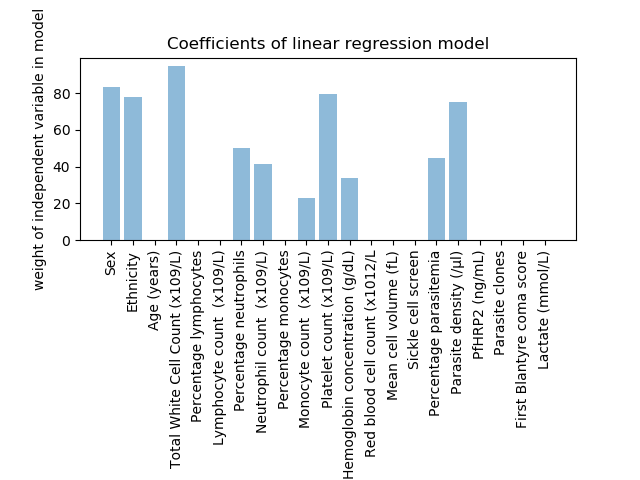
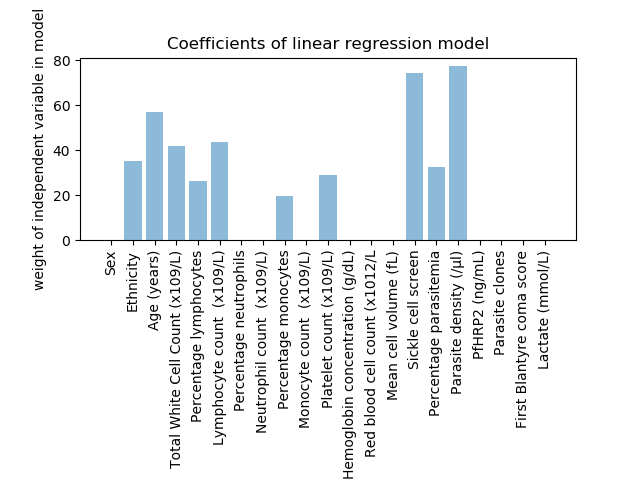
added stuff

diff --git a/src/regrModel.py b/src/regrModel.py
@@ -26,8 +26,10 @@ from https://machinelearningmastery.com/make-predictions-scikit-learn/
 
 # generate regression dataset
 y = readin.prop()
-print(y[1][:])
-#print(len(y))
+y_pathogen = [r[1] for r in y] # only pathogen read proportions
+print(len(y_pathogen))
+print(y_pathogen)
+
 np.asarray(y)
 print('y_array = ', y)
 
@@ -62,67 +64,75 @@ for j in range(len(X)):
 		y_new.append(y[j])
 		X_new.append(X[j])
 
-parasetemia = [9.5,
-15,
-9.2,
-4.8,
-13,
-8.1,
-9.5,
-15,
-9.2,
-4.8,
-13,
-8.1,
-9.5,
-15,
-9.2,
-4.8,
-13,
-8.1,
-9.5,
-15,
-9.2,
-4.8,
-13,
-8.1,
-9.5,
-15,
-9.2,
-4.8,
-13,
-8.1,
-9.5,
-15,
-9.2,
-4.8,
-13,
-8.1,
-9.5,
-15,
-9.2,
-4.8,
-13,
-8.1,
-9.5,
-15,
-9.2,
-4.8]
-print('parasetemia = ', parasetemia)
-
+# TO PRINT PLOT PARASETEMIA PERCENTAGE VS PERCENTAGE OF READS THAT MAP TO HOST
+# parasetemia = [9.5,
+# 15,
+# 9.2,
+# 4.8,
+# 13,
+# 8.1,
+# 9.5,
+# 15,
+# 9.2,
+# 4.8,
+# 13,
+# 8.1,
+# 9.5,
+# 15,
+# 9.2,
+# 4.8,
+# 13,
+# 8.1,
+# 9.5,
+# 15,
+# 9.2,
+# 4.8,
+# 13,
+# 8.1,
+# 9.5,
+# 15,
+# 9.2,
+# 4.8,
+# 13,
+# 8.1,
+# 9.5,
+# 15,
+# 9.2,
+# 4.8,
+# 13,
+# 8.1,
+# 9.5,
+# 15,
+# 9.2,
+# 4.8,
+# 13,
+# 8.1,
+# 9.5,
+# 15,
+# 9.2,
+# 4.8]
+# print('parasetemia = ', parasetemia)
+#
 #print('y_new = ', y_new)
 #print('X_new = ', X_new)
 #print(len(y_new))
 #print(len(X_new))
+#
+#print(len(parasetemia), len(y_pathogen), len(sampleIDs))
+#
+#np.random.seed(1234)
+#plt.title("How well does parasitemia correlate with percentage of pathogen maps?")
+#plt.scatter(parasetemia, y_pathogen, alpha=0.5)
+#plt.xlabel("percentage of parasitemia")
+#plt.ylabel("percentage of pathogen maps")
+#plt.legend(loc=2)
+#plt.show()
+
 
 y_new_h = [item[0] for item in y_new] # list of only host proportions
 print('y_new_h = ', y_new_h)
 
-
-print(len(parasetemia), len(y_new_h))
-plt.bar(parasetemia, y_new_h)
-plt.xticks(x, sampleIDs)
-plt.show()
+#del sampleIDs[0]
 
 # '''
 # # OPTION 2:
@@ -145,77 +155,77 @@ plt.show()
 # #print(len(X_new2))
 # '''
 
-# #X, y = make_regression(n_samples=46, n_features=21, noise=0.1)
-# #X_new, y_new = make_regression(n_samples=23, n_features=21, noise=0.1)
-# X_new, y_new_h = make_regression(n_samples=23, n_features=21, noise=0.)
+#X, y = make_regression(n_samples=46, n_features=21, noise=0.1)
+#X_new, y_new = make_regression(n_samples=23, n_features=21, noise=0.1)
+X_new, y_new_h = make_regression(n_samples=23, n_features=21, noise=0.)
 
-# # fits final model
-# model = LinearRegression()
-# #fitted = model.fit(X, y)
-# #fitted = model.fit(X_new, y_new)
-# fitted = model.fit(X_new, y_new_h)
-# #print(fitted)
+# fits final model
+model = LinearRegression()
+#fitted = model.fit(X, y)
+#fitted = model.fit(X_new, y_new)
+fitted = model.fit(X_new, y_new_h)
+#print(fitted)
 
-# # predicts the y (dependent variable) usind the linear model we fitted
-# predictions = model.predict(X_new)
-# print('\n Predictions:')
-# print('y = ', predictions)
+# predicts the y (dependent variable) usind the linear model we fitted
+predictions = model.predict(X_new)
+print('\n Predictions:')
+print('y = ', predictions)
 
-# #model.summary()
+#model.summary()
 
-# # returns the R^2 score of the model, ie percentage of explained variance of the predictions
-# print('\n R^2 score of the model = ', model.score(X_new, y_new_h))
+# returns the R^2 score of the model, ie percentage of explained variance of the predictions
+print('\n R^2 score of the model = ', model.score(X_new, y_new_h))
 
-# # coeffcients for the predictors
-# print('\n Coefficients of the predictors = ', model.coef_)
-
-
-# # PLOT OF THE COEFFICIENTS OF THE LINEAR MODEL
-# X_labels.pop(0) # remove sample_ID
-# #print(X_labels)
-# #print(len(X_labels))
-
-# fig = plt.figure()
-# coeff = model.coef_
-# coeff_abs = [abs(number) for number in coeff]
-# #print('absolute values of coefficients: ', coeff_abs)
-# x = range(1,22)
-
-# '''
-# to_plot = zip(X_labels, coeff_abs)
-# print('to plot: ', to_plot)
-
-# plt.plot(*zip(*to_plot))
-# plt.show()
-# '''
-
-# #N = len(y)
-# #x = range(N)
-# #width = 1/1.
-# #plt.bar(x, y, width, align='center', color="blue")
-# #plt.bar(x, coeff_abs, align='center', color="blue")
-# y_pos = np.arange(len(X_labels))
-# plt.xticks(rotation=90)
-# plt.xticks(y_pos, X_labels)
-# plt.bar(y_pos, coeff_abs, align='center', alpha=0.5)
-# plt.ylabel('weight of independent variable in model')
-# #plt.bar(X_labels, coeff_abs, align='center', color="blue")
-# plt.title('Coefficients of linear regression model')
-
-# #fig = plt.gcf()
-# #plot_url = py.plot_mpl(fig, filename='mpl-basic-bar')
-# plt.gcf().subplots_adjust(bottom=0.5)
-# plt.show()
-# #plt.savefig('img/coefficients.png')
-# plt.close(fig)
+# coeffcients for the predictors
+print('\n Coefficients of the predictors = ', model.coef_)
 
 
-# '''
-# # new instances where we do not know the answer
-# Xnew, _ = make_regression(n_samples=46, n_features=21, noise=0.1, random_state=1)
-# # make a prediction
-# ynew = model.predict(Xnew)
-# # show the inputs and predicted outputs
-# for i in range(len(Xnew)):
-# 	print("X=%s, Predicted=%s" % (Xnew[i], ynew[i]))
-# '''
+# PLOT OF THE COEFFICIENTS OF THE LINEAR MODEL
+X_labels.pop(0) # remove sample_ID
+#print(X_labels)
+#print(len(X_labels))
+
+fig = plt.figure()
+coeff = model.coef_
+coeff_abs = [abs(number) for number in coeff]
+#print('absolute values of coefficients: ', coeff_abs)
+x = range(1,22)
+
+'''
+to_plot = zip(X_labels, coeff_abs)
+print('to plot: ', to_plot)
+
+plt.plot(*zip(*to_plot))
+plt.show()
+'''
+
+#N = len(y)
+#x = range(N)
+#width = 1/1.
+#plt.bar(x, y, width, align='center', color="blue")
+#plt.bar(x, coeff_abs, align='center', color="blue")
+y_pos = np.arange(len(X_labels))
+plt.xticks(rotation=90)
+plt.xticks(y_pos, X_labels)
+plt.bar(y_pos, coeff_abs, align='center', alpha=0.5)
+plt.ylabel('weight of independent variable in model')
+#plt.bar(X_labels, coeff_abs, align='center', color="blue")
+plt.title('Coefficients of linear regression model')
+
+#fig = plt.gcf()
+#plot_url = py.plot_mpl(fig, filename='mpl-basic-bar')
+plt.gcf().subplots_adjust(bottom=0.5)
+plt.show()
+#plt.savefig('img/coefficients.png')
+plt.close(fig)
+
+
+'''
+# new instances where we do not know the answer
+Xnew, _ = make_regression(n_samples=46, n_features=21, noise=0.1, random_state=1)
+# make a prediction
+ynew = model.predict(Xnew)
+# show the inputs and predicted outputs
+for i in range(len(Xnew)):
+	print("X=%s, Predicted=%s" % (Xnew[i], ynew[i]))
+'''
